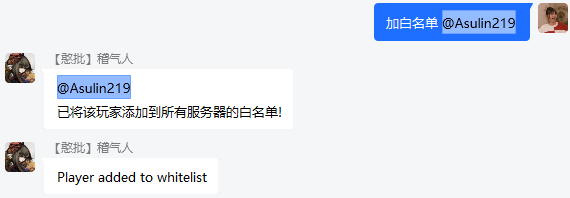
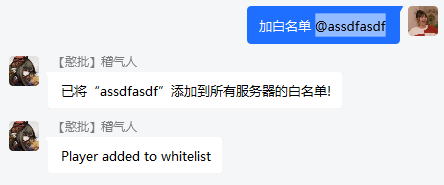
xbn文章更新、更正主页描述错误

diff --git a/docs/user/xbn/regex.md b/docs/user/xbn/regex.md
@@ -5,7 +5,18 @@
 文件位置|说明
 --|--
 `/config/regex.json`|配置群消息自动应答规则。
+</br>
 
+* 正则表达式还支持以下占位符（部分正则可用）：
+
+占位符|说明
+---|---
+{player}|已绑定玩家的Xbox ID
+{cpu_usage}|CPU使用率
+{mem_usage_present}|内存使用率（以百分比形式显示）
+{mem_usage_size}|内存使用率（以容量形式显示）
+{sys_uptime}|系统已运行时间
+</br>
 
 一个正则表达式配置文件的基本结构包括 **regex（正则体）**、**permission（所需执行权限）**、**actions（动作组）**。而**actions**内可以包含一个或多个动作，每个动作的基本结构为**type（动作类型）**和**content（动作内容）**。当玩家在群内发送消息时，如果发送的文本和正则表达式中配置中的关键词匹配，且玩家权限与该段关键词的所需权限匹配，即可触发相应的动作组。动作可以是执行指令，也可以是群内发送消息。下面将会针对默认的正则表达式配置进行详细介绍。
 
@@ -26,6 +37,20 @@
 ```
 
 ![06](../../img/xbn/runcmd.png)
+
+* 预定指令目前还支持玩家占位符，用于实现一些特定功能，例如：
+```json
+{
+	"regex": "^自杀$",
+	"permission": 0,
+	"actions": [
+		{
+			"type": "runcmd",
+			"content": "kill {player}"
+		}
+	]
+}
+```
 
 ---
 ### 执行自定义指令（以“whitelist reload”为例）
@@ -78,19 +103,13 @@
 	"actions": [
 		{
 			"type": "sys_info",
-			"content": "服务器状态\nCPU使用：{cpu_usage}\n内存使用：{mem_usage}\n已运行时间：{sys_uptime}"
+			"content": "服务器状态\nCPU使用：{cpu_usage}\n内存使用：{mem_usage}\n磁盘空间使用：{disk_usage}\n已运行时间：{sys_uptime}"
 		}
 	]
 }
 ```
 ![09](../../img/xbn/sysinfo.png)
 
-占位符|说明
----|---
-{cpu_usage}|CPU使用率
-{mem_usage_present}|内存使用率（以百分比形式显示）
-{mem_usage_size}|内存使用率（以容量形式显示）
-{sys_uptime}|系统已运行时间
 
 **Tips**：这里查询的是XBridgeN所在服务器的状态。如果需要查询BDS服务器的状态，建议将XBridgeN与BDS部署在同一台主机上。
 
@@ -104,13 +123,33 @@
 	"actions": [	//动作组
 		{
 			"type": "bind_whitelist",	//动作模式
-			"content": "白名单申请已发送，请等待管理员审核！"	//动作内容，一般为动作执行后的群消息提示
+			"content": "您的Xbox ID“{player}”已绑定，请等待管理员开通白名单！"
+			/* ↑ 动作内容，一般为动作执行后的群消息提示*/
 		}
 	]
 }
 ```
 
 ![00](../../img/xbn/bind_whitelist.png)
+
+---
+
+### 自助添加白名单
+```json
+{
+	"regex": "^我要白名单$",
+	"permission": 0,
+	"actions": [
+		{
+			"type": "add_whitelist_self",
+			"content": "您的Xbox ID“{player}”已添加到服务器白名单！"
+		}
+	]
+}
+```
+![14](../../img/xbn/i_whitelist.png)
+
+需要注意的是，玩家需要先绑定Xbox ID，然后才能使用自助添加白名单。
 
 ---
 ### 自助解绑白名单
@@ -158,7 +197,7 @@
 	"actions": [
 		{
 			"type": "add_whitelist",
-			"content": "已将该玩家添加到所有服务器的白名单!"
+			"content": "已将“{player}”添加到所有服务器的白名单!"
 		}
 	]
 }
@@ -176,7 +215,7 @@
 	"actions": [
 		{
 			"type": "del_whitelist",
-			"content": "已将该玩家从所有服务器的白名单中移除!"
+			"content": "已将“{player}”从所有服务器的白名单中移除!"
 		}
 	]
 }

diff --git a/docs/user/xbn/index.md b/docs/user/xbn/index.md
@@ -2,14 +2,15 @@
 ![GitHub](https://img.shields.io/github/license/XBridgeX/XBridge-Nodejs) ![GitHub forks](https://img.shields.io/github/forks/XBridgeX/XBridge-Nodejs) ![GitHub contributors](https://img.shields.io/github/contributors/XBridgeX/XBridge-Nodejs?color=orange) ![GitHub last commit (branch)](https://img.shields.io/github/last-commit/XBridgeX/XBridge-Nodejs/dev) ![GitHub release (latest SemVer)](https://img.shields.io/github/v/release/XBridgeX/XBridge-Nodejs?include_prereleases)
 
 **XBridgeN** 是XBridgeX项目下的一个群服互通机器人，基于[OICQ](https://github.com/takayama-lily/oicq)机器人框架、Node.js平台进行构建。
-目前，XBridgeN已支持与基岩版服务器的主流WebSocket组件进行对接：
+目前，XBridgeN已支持与主流的**WebSocket服务器***进行对接：
 
-WebSocket组件|项目状态
---|--
-[KWO](https://github.com/XBridgeX/KWO)|活动，开发中
-[LLWebSocket（原BDXWebSocket）](https://www.minebbs.com/resources/c-bdx-liteloader-bdswebsocketapi.2150/)|活动
-XWebSocket|停更，已转向KWO
+WebSocket服务器|类型|项目状态
+--|--|--
+[KWO](https://github.com/XBridgeX/KWO)|BDS启动器软件|活动，开发中
+[LLWebSocket（原BDXWebSocket）](https://www.minebbs.com/resources/c-bdx-liteloader-bdswebsocketapi.2150/)|BDS端基于LiteLoader平台的插件|活动
+XWebSocket|BDS端基于CSR平台的插件|停更，已转向KWO
 
+**WebSocket服务器***：泛指能够实现WebSocket通信的组件。这些组件通常以插件或者软件的形式存在。
 <br><br>**阅读本文档，您将能够：**
 
 * 掌握XBridgeN的基本使用

diff --git a/docs/user/xbn/config.md b/docs/user/xbn/config.md
@@ -1,5 +1,7 @@
 # XBridgeN：一般配置
-当检测到配置文件不存在时，XBridgeN会自动生成配置文件。以下配置文件均支持热修改（修改完成后无需重启程序即可生效）
+当XBridgeN检测到配置文件不存在时，会自动生成配置文件（需要注意的是，每当XBridgeN有版本更新时，请留意XBridgeN的更新说明有没有涉及到配置文件变动）。
+
+配置文件支持热修改，修改保存后无需重启程序即可生效。
 
 ## 生物实体数据
 `./config/mobs.json` - 用于保存实体（玩家、生物）命名。
@@ -26,9 +28,9 @@
 示例配置：
 ```json
 {
-	"black_be": {	//云黑功能
-		"join_group_detection": true,	//是否启用加群云黑检测
-		"autonomous_check": true		//是否启用自助云黑查询
+	"join_group_detection": {	//加群云黑检测功能
+		"enable": true,	//是否启用加群云黑检测
+		"request_auto_process": true	//加群云黑检测后是否自动处理加群请求
 	},
 	"player_join": {	//玩家进服
 		"enable": true,		//是否开启玩家进服时的群消息提示

diff --git a/docs/index.md b/docs/index.md
@@ -16,9 +16,9 @@ Meet capable server owners or developers for custom robot development
 
 ## 项目状态
 
-### 核心组件
+### 项目简介
 
-|项目|使用语言|状态|
+|项目|开发语言|状态|
 |--|--|--|
 |XBridge-Nodejs|Node.js|<font color="DarkSeaGreen">已完工</font>|
 |XBridge-CSharp|C#|<font color="DarkSeaGreen">已完工</font>|
@@ -27,10 +27,10 @@ Meet capable server owners or developers for custom robot development
 
 ### 机器人适配
 
-|项目|使用项目|机器人框架|
+|机器人名称|采用项目|机器人框架|
 |--|--|--|
 |XBridgeR|XBridge-CSharp|[Mirai](https://github.com/mamoe/mirai)|
-|XBridgeN|XBridge-Nodejs|[QICO](https://github.com/takayama-lily/oicq)|
+|XBridgeN|XBridge-Nodejs|[OICQ](https://github.com/takayama-lily/oicq)|
 |XBridgeA|XBridge-Lua|[ColorMirai](https://github.com/Coloryr/ColorMirai)|
 
 
